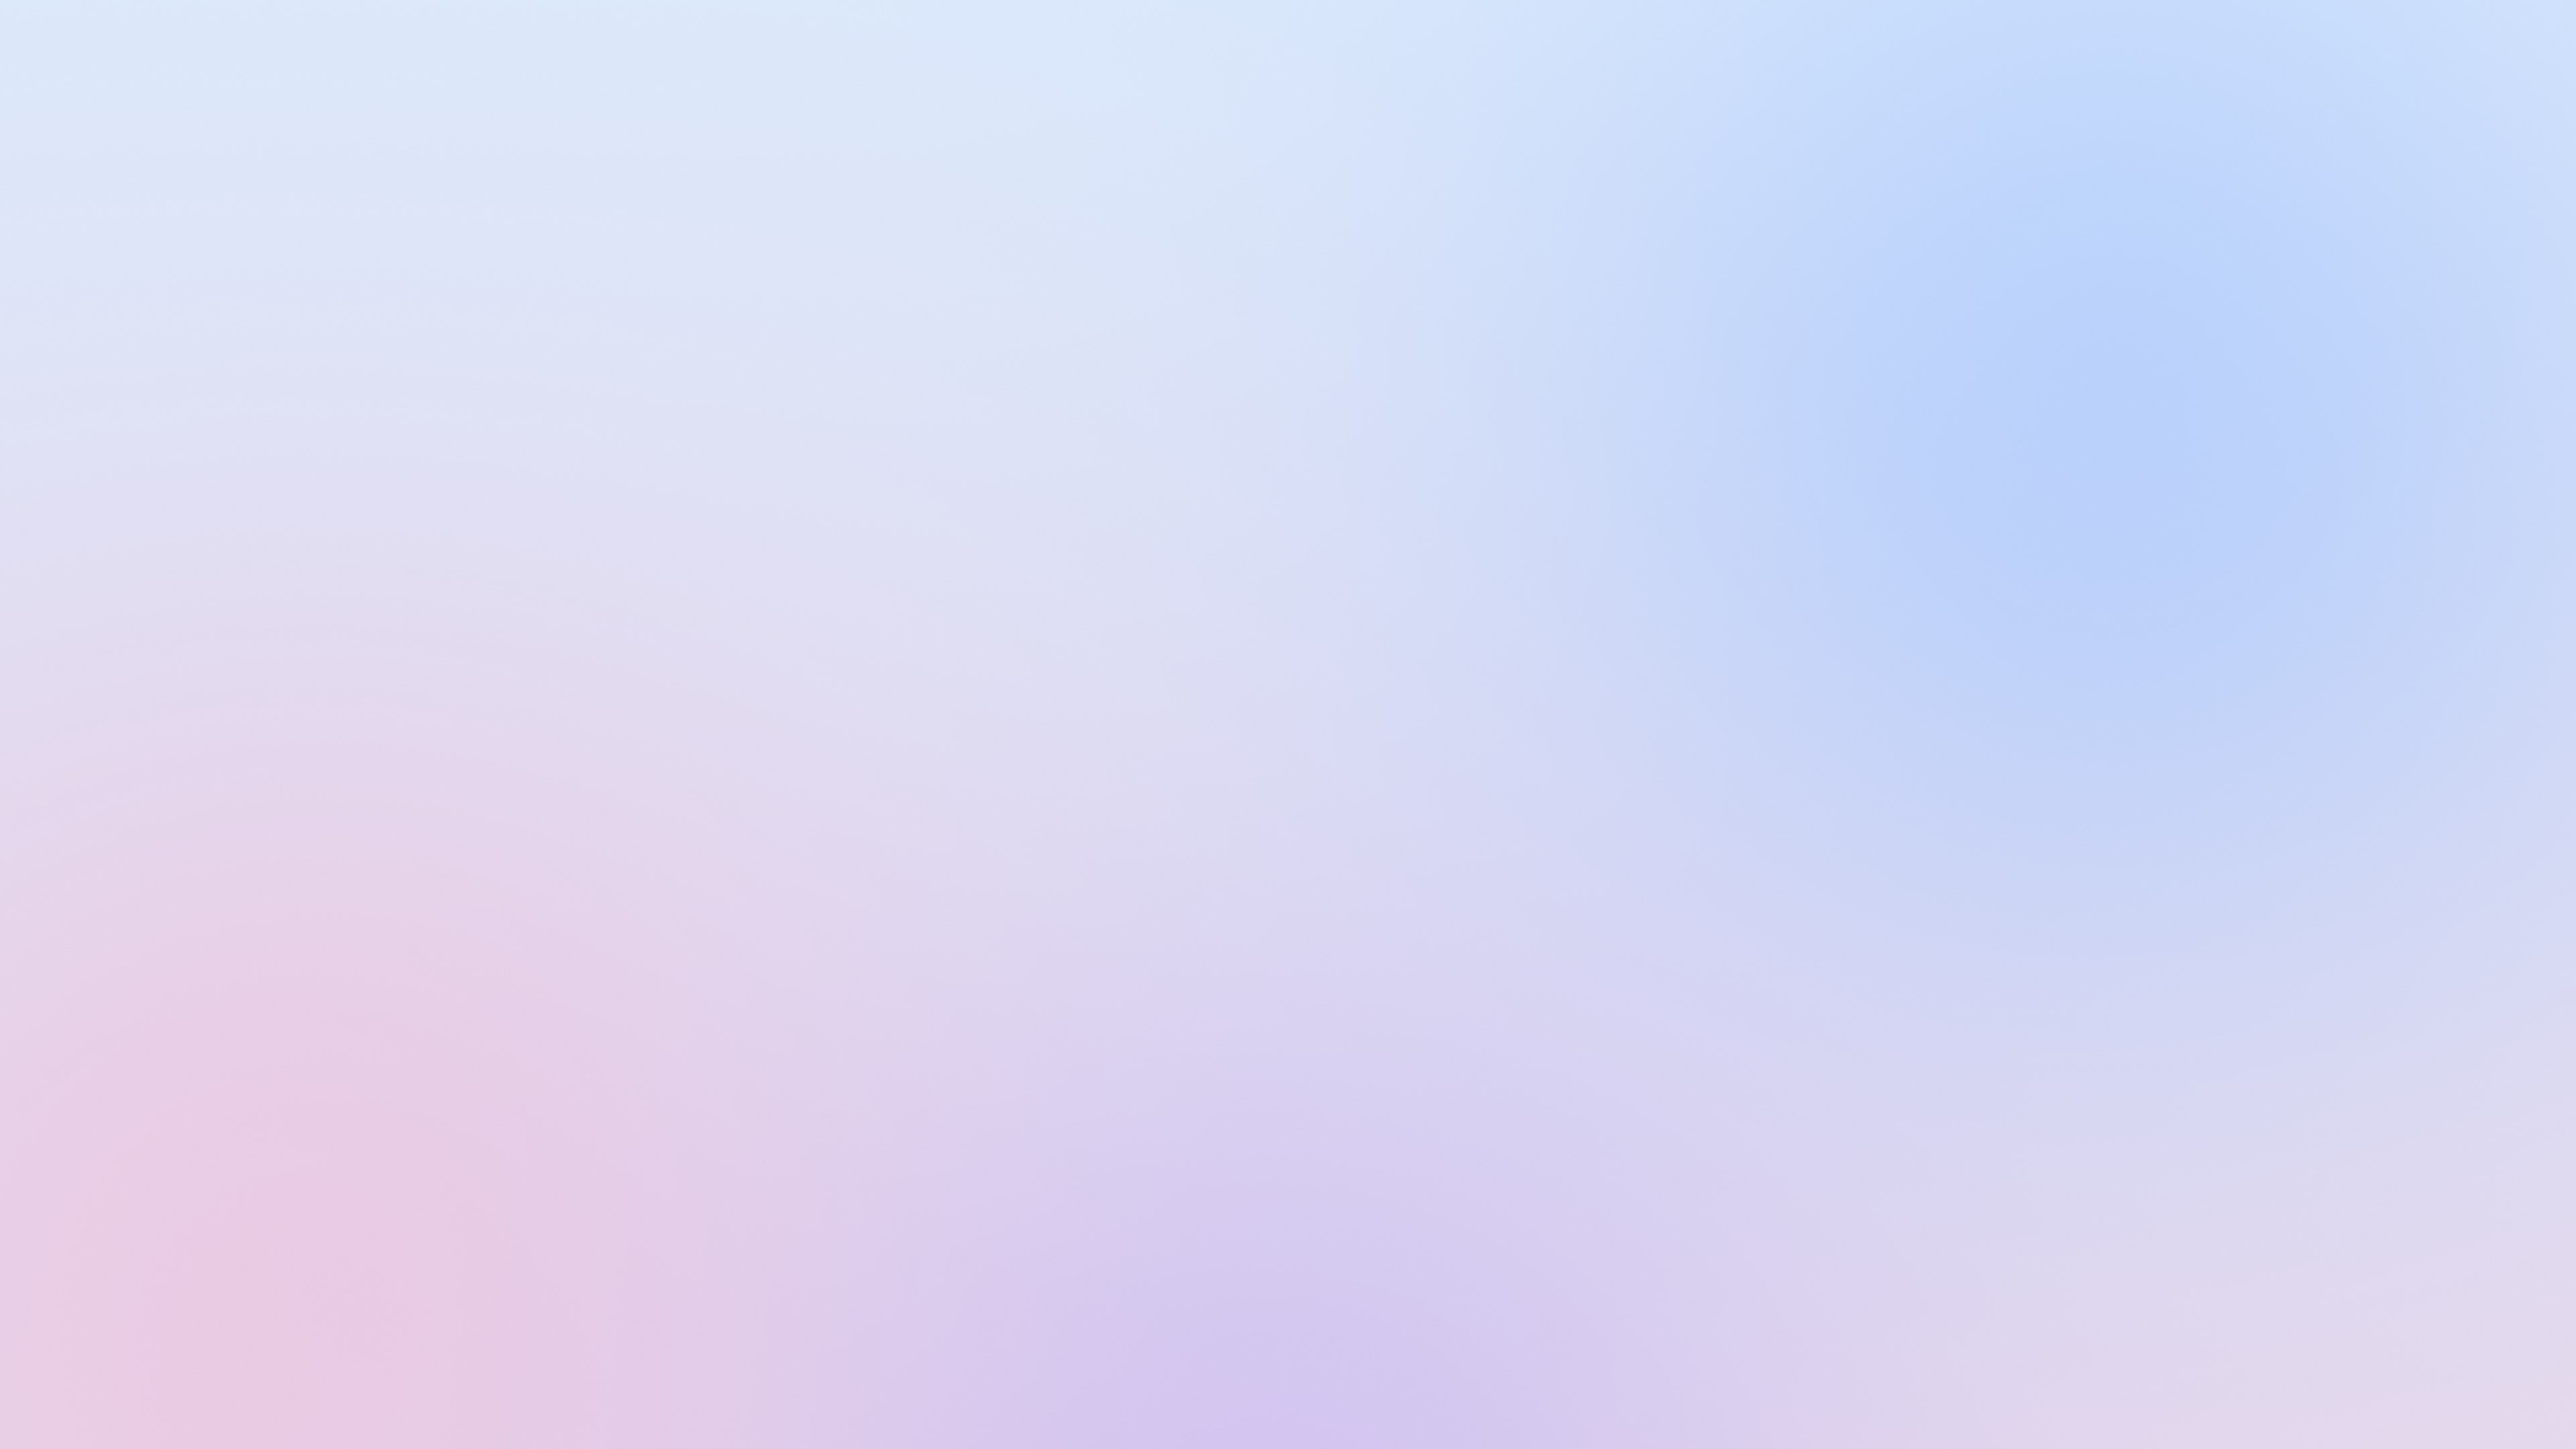
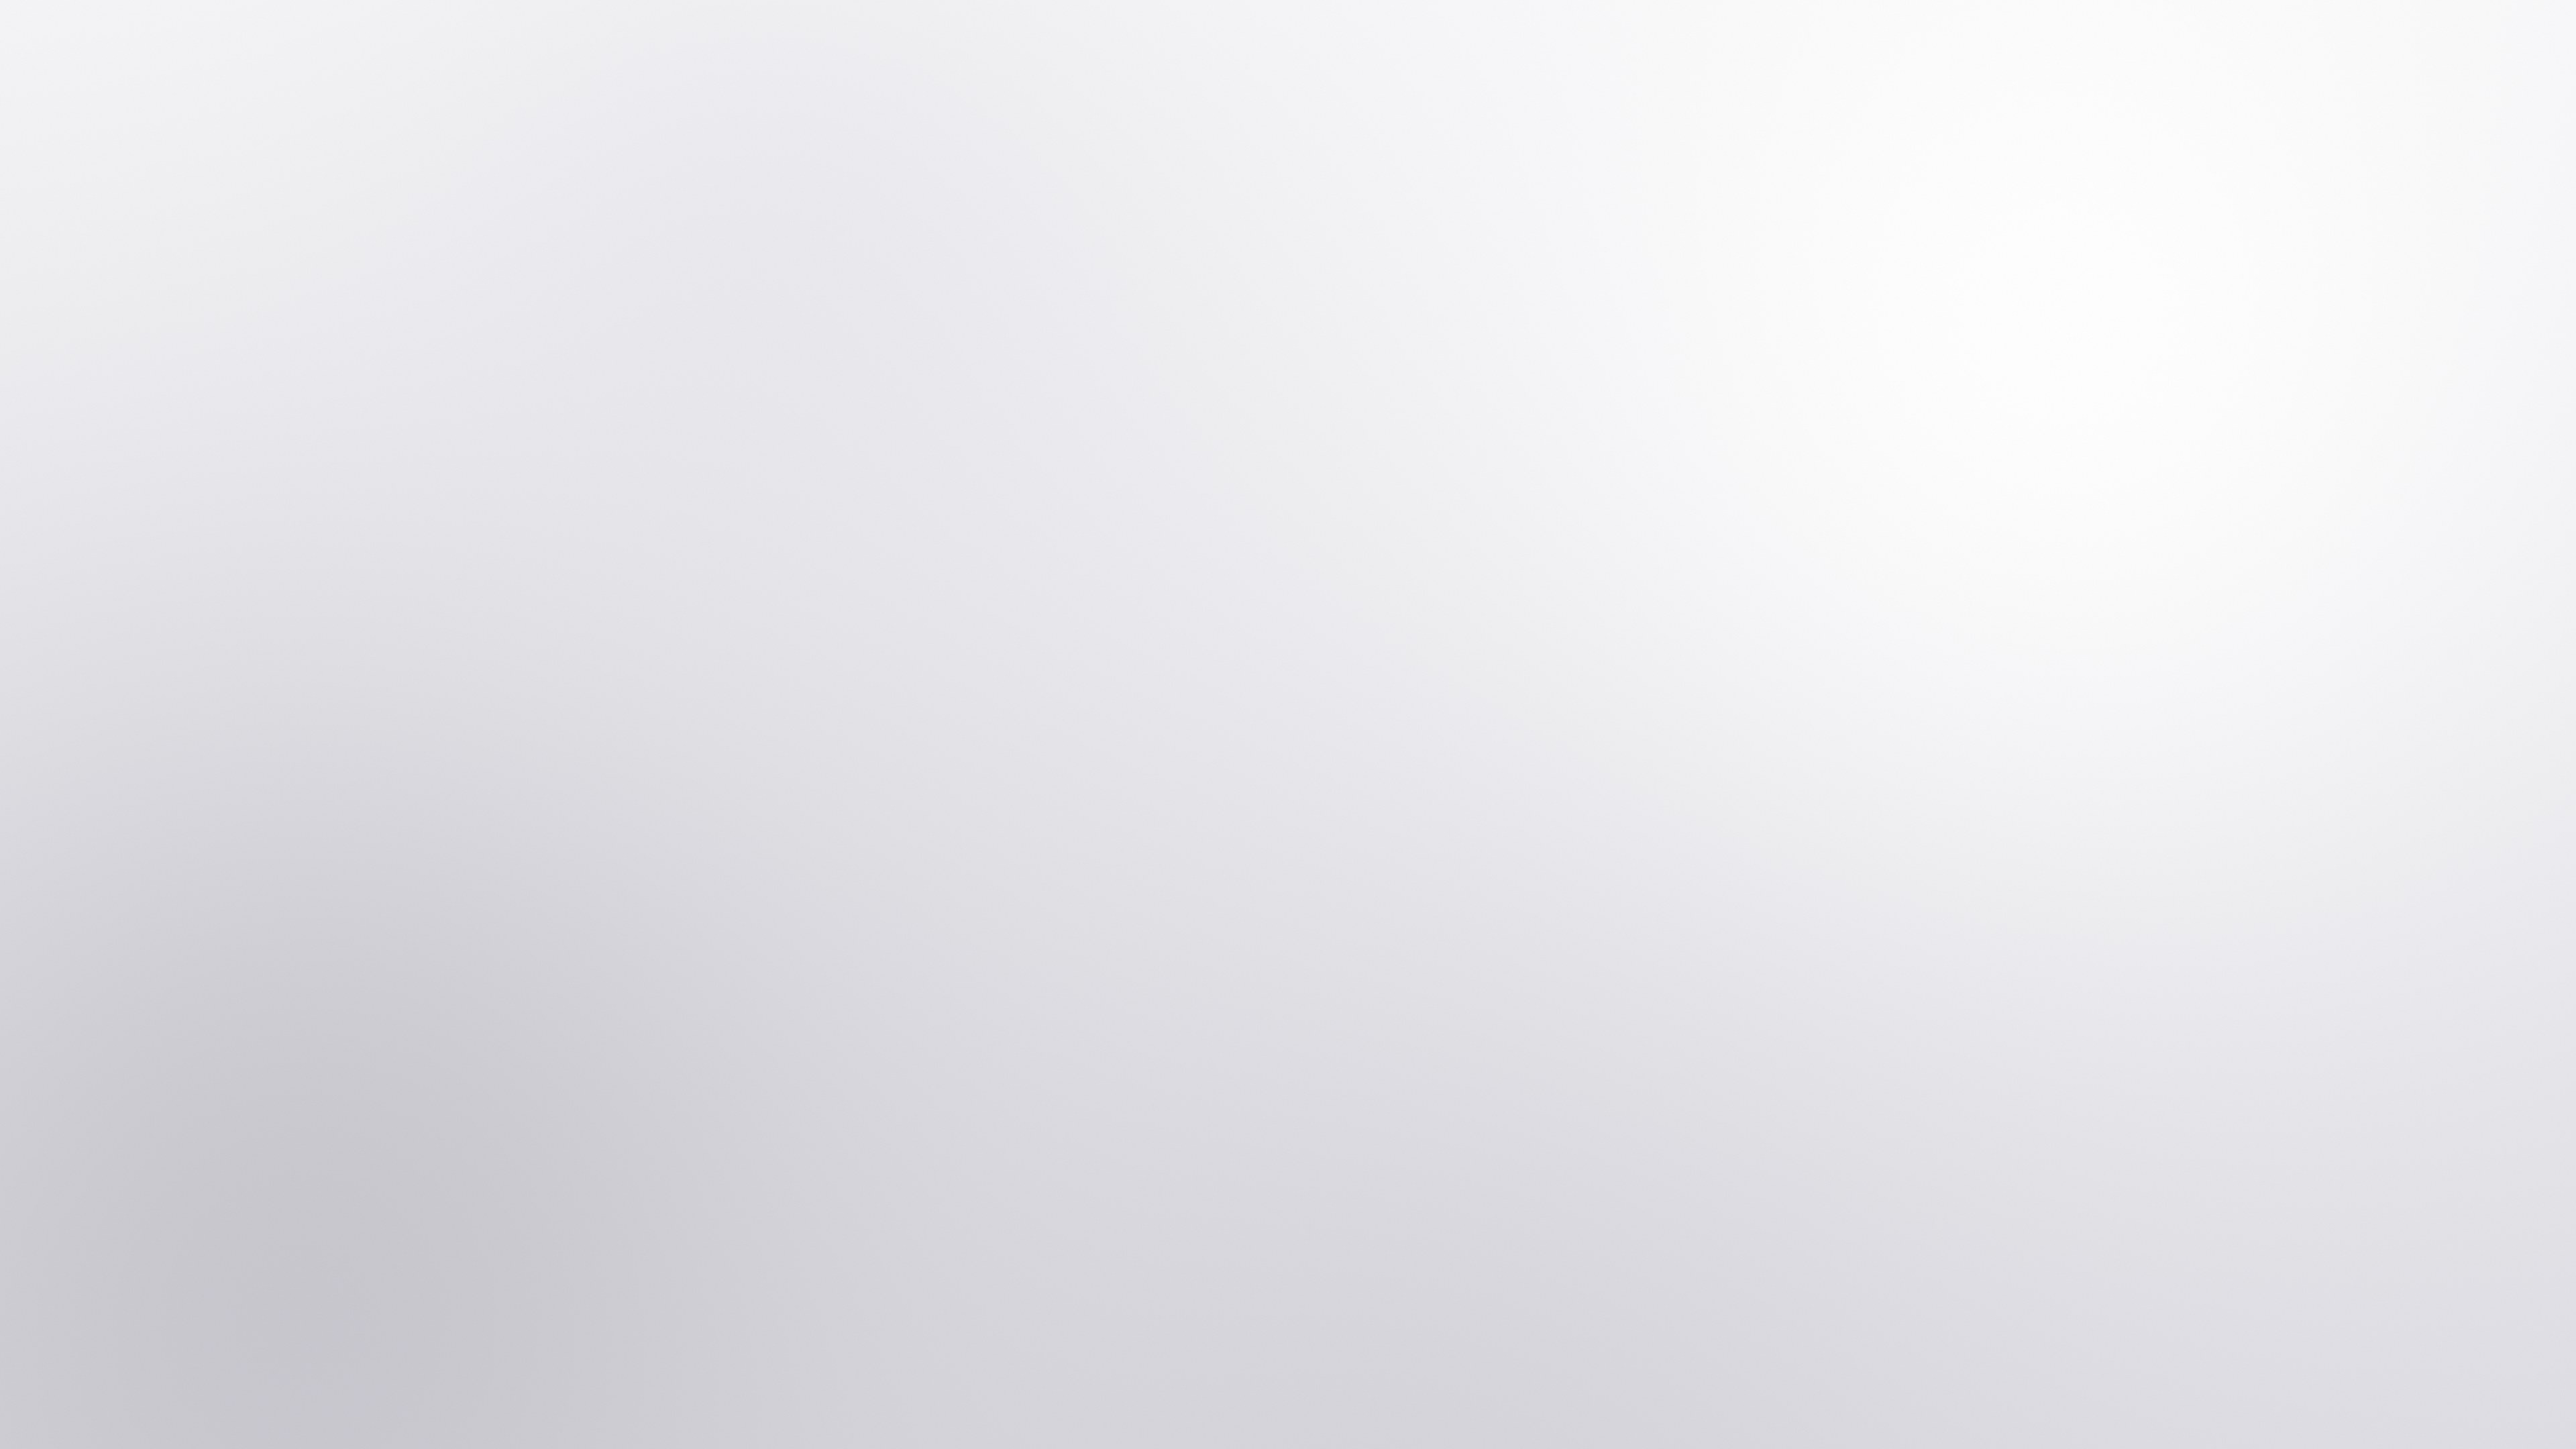
feat(look): monochrome wallpapers and neutral KDE palettes
Pearl and graphite NovaShell wallpapers with soft light volumes, KDE
NovaGlass schemes without blue selection, focus or links, and an SDDM
transparency option bound to the same glass intensity.

diff --git a/session/sddm/novashell/Main.qml b/session/sddm/novashell/Main.qml
@@ -33,6 +33,9 @@ Rectangle {
             Theme.glassAccent = false;
         }
         Theme.reduceMotion = config.boolValue("reduceMotion");
+        // Intensidad del vidrio (0 = más opaco, 1 = más transparente).
+        const amount = config.realValue("transparency");
+        Theme.transparency = amount >= 0 && amount <= 1 && config.stringValue("transparency") !== "" ? amount : 0.5;
         enter.start();
     }
 

diff --git a/tools/render-wallpapers.py b/tools/render-wallpapers.py
@@ -4,7 +4,7 @@
 
 Los usan el splash, el tema SDDM y la pantalla de bloqueo, para que el inicio
 de sesión, la carga y el escritorio compartan identidad. Los colores parten de
-los tokens previewTop/previewBottom y del acento de Theme.qml.
+los tokens previewTop/previewBottom de Theme.qml: monocromos, sin azules.
 
 Uso: render-wallpapers.py [--size 3840x2160] [--out assets/wallpapers]
 Requiere numpy y Pillow (solo para regenerar; el resultado está versionado).
@@ -19,15 +19,20 @@ ROOT = pathlib.Path(__file__).resolve().parent.parent
 
 # (arriba, abajo, [(x, y, radio, color, intensidad)]) en coordenadas 0..1.
 PALETTES = {
-    "light": ("#dce9fb", "#e6d9ec", [
-        (0.82, 0.30, 0.42, "#9cc2ff", 0.55),
-        (0.12, 0.85, 0.40, "#f0b8d8", 0.45),
-        (0.50, 1.05, 0.38, "#b6a8f5", 0.40),
+    # Monocromo (Liquid Glass): perla en claro, grafito en oscuro; sin tintes.
+    # Volúmenes de luz suaves con contraste suficiente para que el vidrio
+    # translúcido se note encima.
+    "light": ("#f4f4f6", "#dddce2", [
+        (0.80, 0.24, 0.40, "#ffffff", 0.90),
+        (0.12, 0.88, 0.42, "#bdbcc4", 0.70),
+        (0.55, 1.08, 0.40, "#cfced5", 0.60),
+        (0.30, 0.18, 0.26, "#e2e1e7", 0.45),
     ]),
-    "dark": ("#16243b", "#2a1f38", [
-        (0.82, 0.28, 0.45, "#3478f6", 0.42),
-        (0.10, 0.88, 0.42, "#8a3f7a", 0.40),
-        (0.52, 1.08, 0.40, "#5b48c9", 0.38),
+    "dark": ("#16161a", "#08080a", [
+        (0.80, 0.24, 0.42, "#5a5a62", 0.65),
+        (0.12, 0.88, 0.40, "#34343a", 0.60),
+        (0.55, 1.08, 0.40, "#44444b", 0.55),
+        (0.30, 0.18, 0.24, "#2a2a30", 0.45),
     ]),
 }
 
